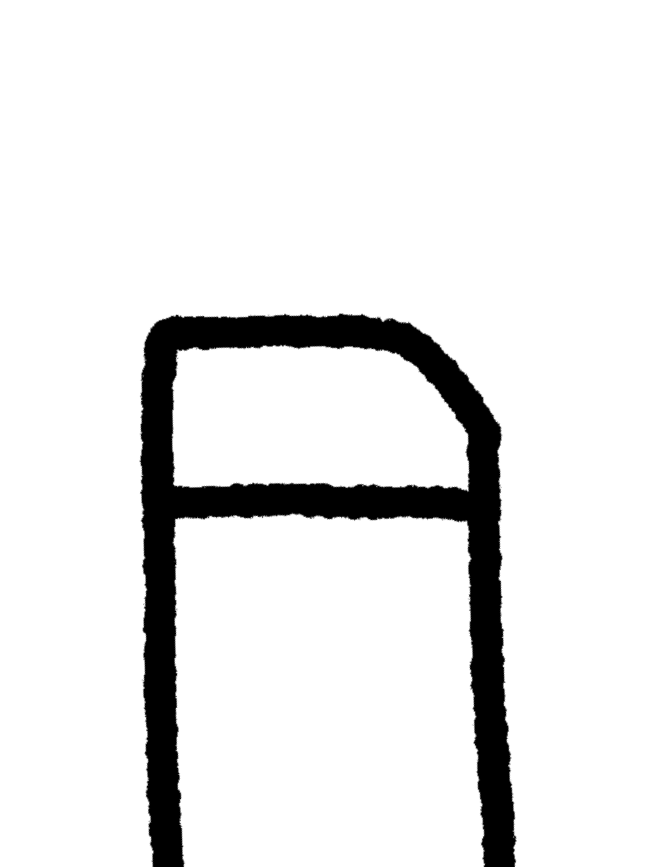
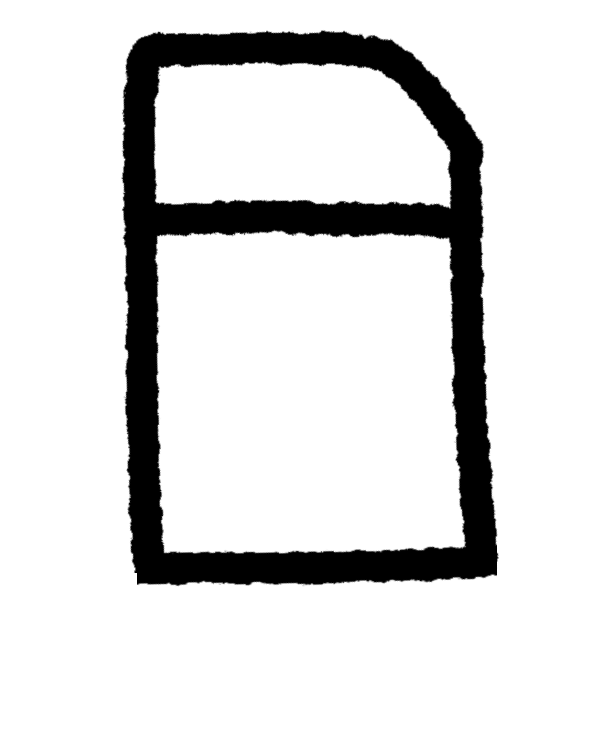
on hover, tools pop up instead of opacity change

Changed region(s): [[0.1857, 0.0308, 0.8355, 1.0]]

diff --git a/style.css b/style.css
@@ -147,7 +147,6 @@ ol {
     opacity: 0.5;
 }
 
-
 .toolbar {
     position: absolute;
     bottom: 0;
@@ -160,11 +159,16 @@ ol {
 
 .toolbar img {
     height: 10vh;
+    transform: translate(0px, 26px);
 }
 
 .toolbar img:hover {
-    opacity: 0.5;
     cursor: pointer;
+    transform: translate(0px, 0px);
+}
+
+.toolbar img.active {
+    transform: translate(0px, 0px);
 }
 
 #canvas {
@@ -173,7 +177,7 @@ ol {
     left: 0;
 }
 
-/* Input styling */
+/******** Input slider styling **********/
 .brushsize-container {
     position: absolute;
     left: -20px;
